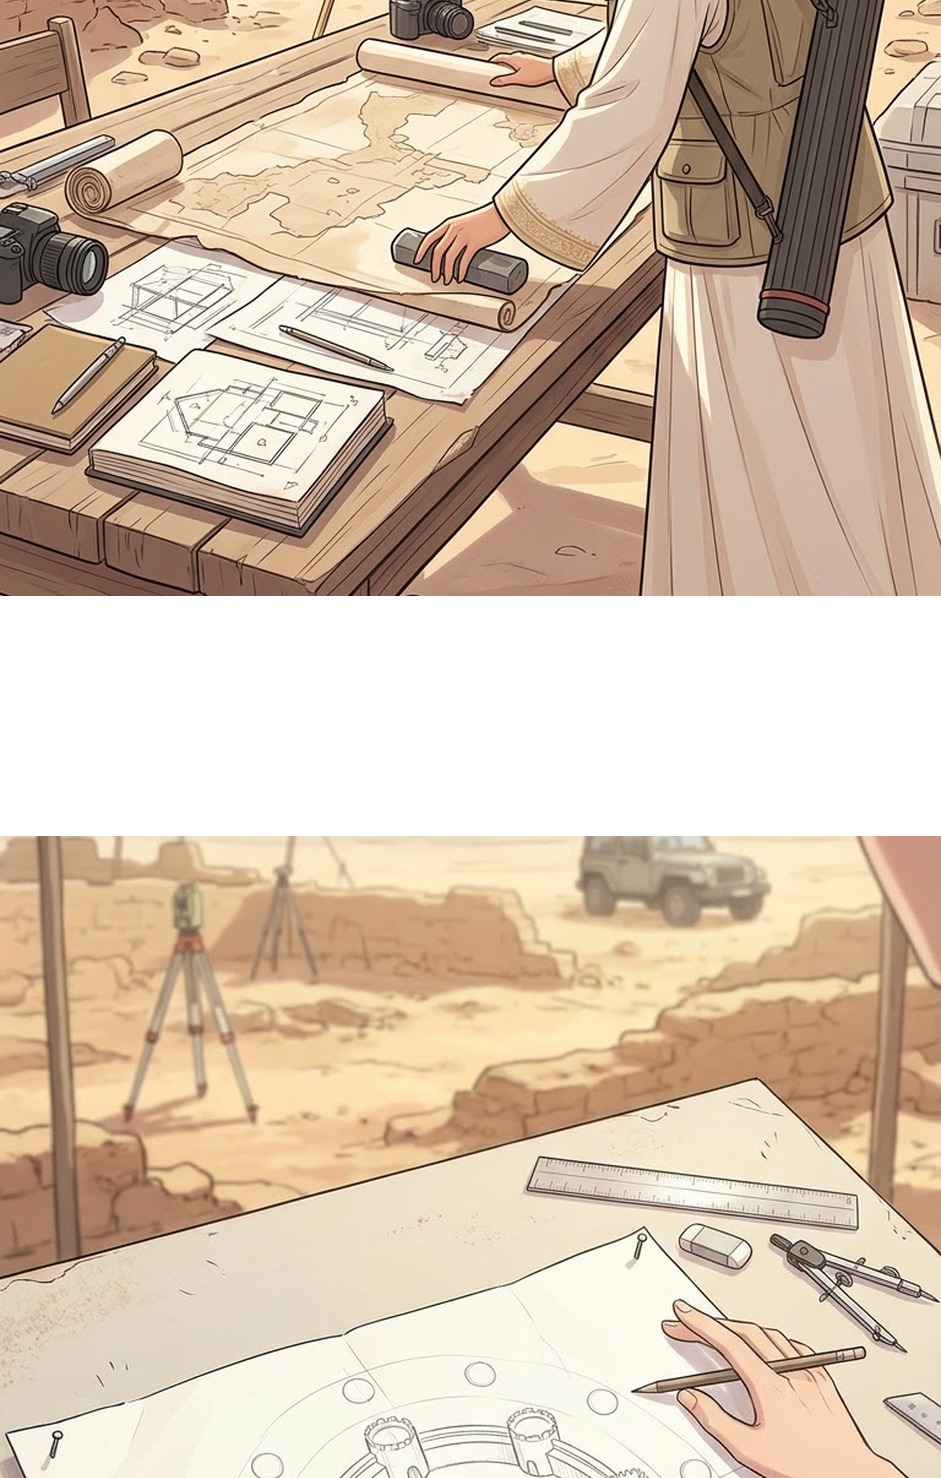
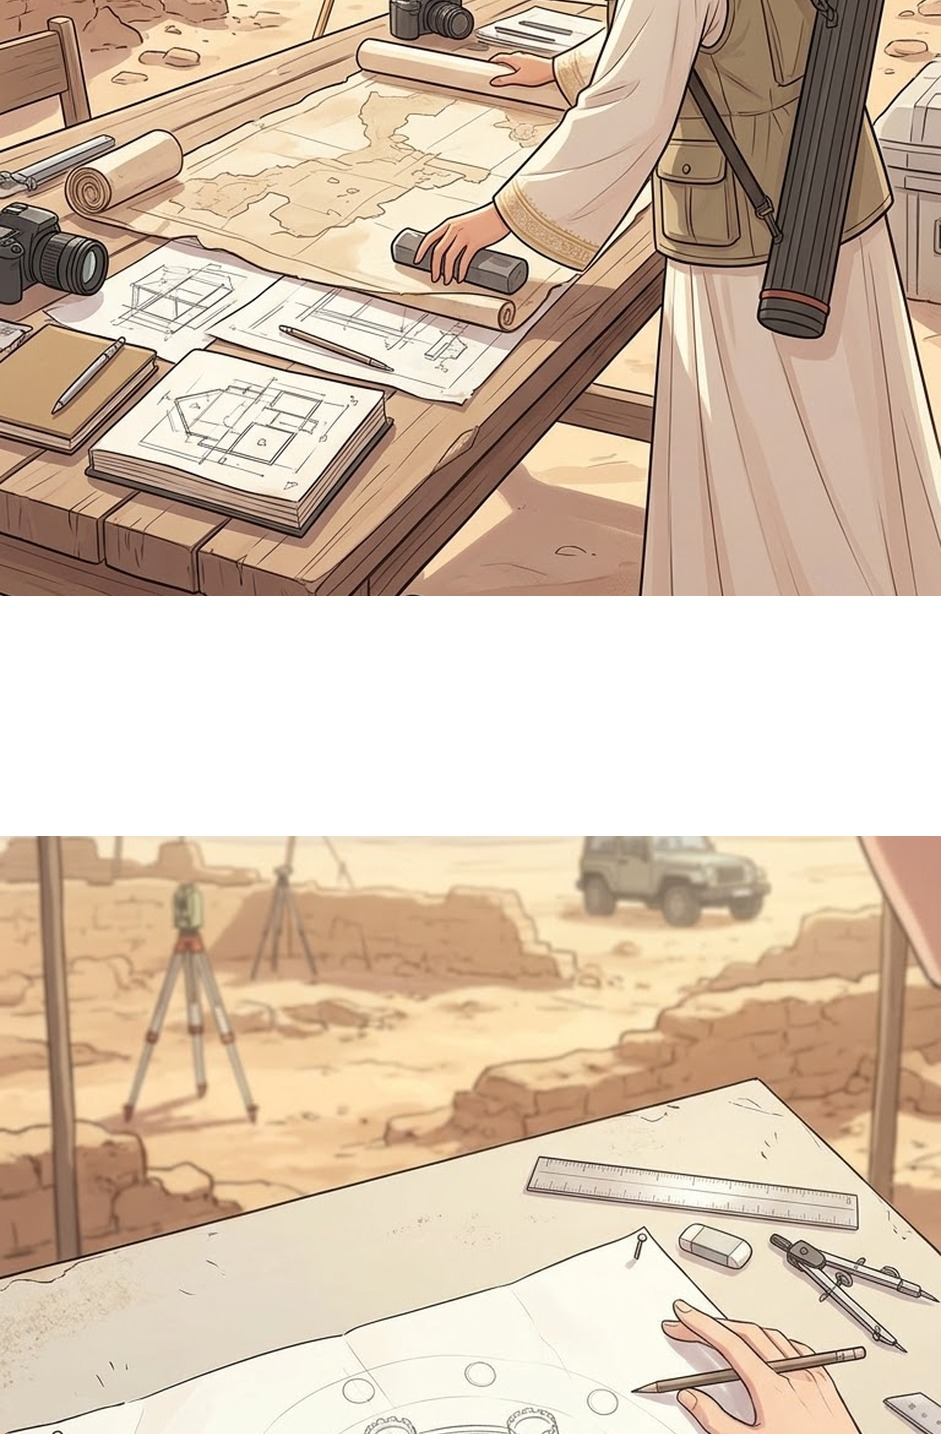
fix: 시즌2 7화 6컷 지프 효과음 '크아앙~~', 10컷 아름 대사 '앗, 이 그림은…'

diff --git a/index.html b/index.html
@@ -61,7 +61,7 @@ footer{text-align:center;color:var(--muted);font-size:12px;padding:24px 16px 40p
 <nav id="nav"></nav>
 <main id="main"></main>
 <footer>여호수아 시즌1은 기존 Joshua-story 사이트에서 열립니다.</footer>
-<script src="data.js?v=202610211935"></script>
+<script src="data.js?v=202610211936"></script>
 <script>
 const esc = s => String(s).replace(/[&<>"]/g, c => ({'&':'&amp;','<':'&lt;','>':'&gt;','"':'&quot;'}[c]));
 const nav = document.getElementById('nav'), main = document.getElementById('main');

diff --git a/viewer.html b/viewer.html
@@ -41,7 +41,7 @@ select{font:inherit;font-size:13px;padding:4px 6px;border:1px solid var(--line);
   <p id="endNote"></p>
   <div class="nav" id="nav"></div>
 </div>
-<script src="data.js?v=202610211935"></script>
+<script src="data.js?v=202610211936"></script>
 <script>
 const sid = new URLSearchParams(location.search).get('s') || 'pureday';  // 2026-10-20 시즌2 카드
 const s = window.PORTAL.series.find(x => x.id === sid) || window.PORTAL.series.find(x => x.id === 'pureday');
